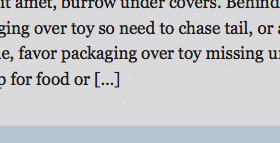
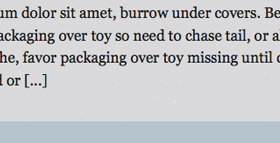
Improve accessibility (h/t Sandy Feldman)

Changed region(s): [[0.0, 0.0, 1.0, 0.4755], [0.0, 0.8392, 1.0, 0.8951], [0.0, 0.5035, 0.4286, 0.6154]]

diff --git a/slides/index.html b/slides/index.html
@@ -378,10 +378,10 @@ Version: 1.0
 				</section>
 				<section>
 					<h2>wp_title() &amp; bloginfo('name')</h2>
-					<p>The title function looks best if you also add the site&rsquo;s name (the one you specify under Settings &rarr; General). This:</p>
-					<pre><code class="php">&lt;title&gt;&lt;?php bloginfo( 'name' ); wp_title(); ?&gt;&lt;/title&gt;</code></pre>
-					<p>outputs this (when viewing that same blog post):</p>
-					<pre><code class="php">Feline Design Co. &raquo; Blog post #1</code></pre>
+					<p>The title function looks best if you also add the site&rsquo;s name (the one you specify under Settings &rarr; General), and change the separator. This:</p>
+					<pre><code class="php">&lt;title&gt;&lt;?php wp_title('&amp;mdash;', true, 'right'); bloginfo( 'name' ); ?&gt;&lt;/title&gt;</code></pre>
+					<p>changes the separator to a long dash, moves it to the right-hand side, and adds the site name, outputting this (when viewing that same blog post):</p>
+					<pre><code class="php">Blog post #1 &mdash; Feline Design Co.</code></pre>
 					<p class="small"><strong>Reference:</strong> <a href="http://codex.wordpress.org/Function_Reference/bloginfo">codex.wordpress.org/Function_Reference/bloginfo</a></p>
 				</section>
 				<section>
@@ -922,10 +922,10 @@ add_action( 'wp_enqueue_scripts', 'my_scripts_and_styles' );</code></pre>
 				</section>
 				<section>
 					<h2>excerpt_more</h2>
-					<p>By default, WordPress adds [...] to the end of <code>the_excerpt()</code>. To replace this with an ellipsis character and a &ldquo;Continue reading&rdquo; link to the full post, include this code in functions.php:</p>
+					<p>By default, WordPress adds [...] to the end of <code>the_excerpt()</code>. To replace this with an ellipsis character and a &ldquo;Continue reading &ldquo;[post title]&rdquo; &rarr;&rdquo; link to the full post, include this code in functions.php:</p>
 					<pre><code class="php">// Append ellipsis and continue reading link to automatic excerpts
 function my_excerpt_more( $more ) {
-    return ' &amp;hellip; &lt;a href="'. get_permalink() .'"&gt;Continue reading &amp;rarr;&lt;/a&gt;';
+    return ' &amp;hellip; &lt;a href="'. get_permalink() .'"&gt;Continue reading &amp;ldquo;'. get_the_title() .'&amp;rdquo; &amp;rarr;&lt;/a&gt;';
 }
 add_filter('excerpt_more', 'my_excerpt_more');</code></pre>
 				</section>

diff --git a/feline-design-co/functions.php b/feline-design-co/functions.php
@@ -36,7 +36,7 @@ add_action( 'wp_enqueue_scripts', 'my_scripts_and_styles' );
 
 // Append ellipsis and continue reading link to automatic excerpts
 function my_excerpt_more( $more ) {
-	return ' &hellip; <a href="'. get_permalink() .'">Continue reading &rarr;</a>';
+	return ' &hellip; <a href="'. get_permalink() .'">Continue reading &ldquo;'. get_the_title() .'&rdquo; &rarr;</a>';
 }
 add_filter('excerpt_more', 'my_excerpt_more');
 

diff --git a/feline-design-co/index.php b/feline-design-co/index.php
@@ -2,7 +2,7 @@
 <html <?php language_attributes(); ?>>
 	<head>
 		<meta charset="<?php bloginfo( 'charset' ); ?>" />
-		<title><?php bloginfo( 'name' ); wp_title(); ?></title>
+		<title><?php wp_title('&mdash;', true, 'right'); bloginfo( 'name' ); ?></title>
 		<meta name="viewport" content="width=device-width, initial-scale=1" />
 		<?php wp_head(); ?>
 	</head>
